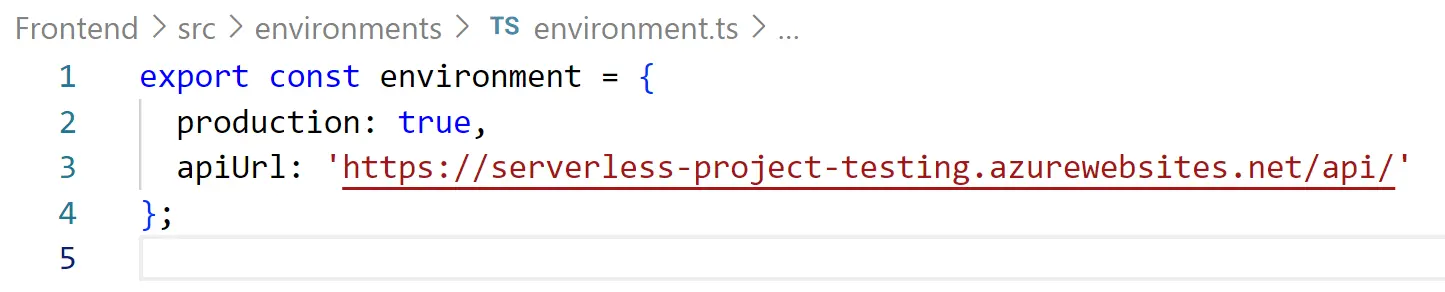
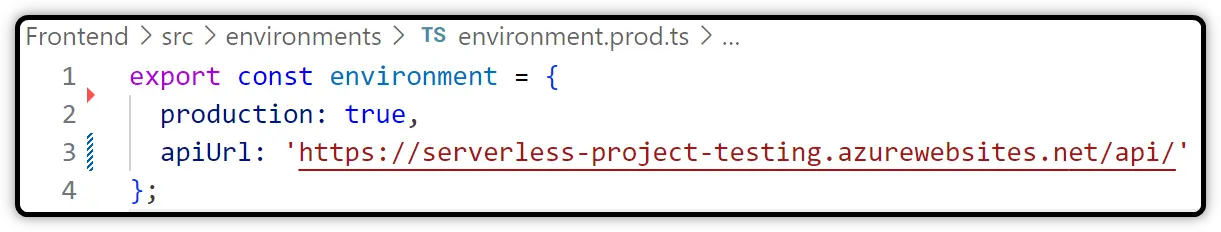
2024_10_20_10:55

Changed region(s): [[0.0, 0.0302, 0.9959, 0.9655]]

diff --git a/how_to_publish_frontend_angular_to_azure_in_visual_studio_code.md b/how_to_publish_frontend_angular_to_azure_in_visual_studio_code.md
@@ -6,7 +6,11 @@ Source here: [henriquesd.medium.com/...](https://henriquesd.medium.com/deploying
 
 ## Creating an APP Service
 
-To deploy the Front-End application, we need to create an “App Service”. In Azure portal, search for “App Services” (this service allows us to deploy our WEB API as software as a service (SaaS):
+To deploy the Front-End application, we need to create an “App Service”. 
+
+In Azure portal, search for “App Services” 
+
+(this service allows us to deploy our WEB API as software as a service (SaaS):
 
 ![foo image label](.images/app-service.webp)
 
@@ -14,13 +18,19 @@ Then click in “Create”:
 
 ![foo image label](.images/app-service-create.webp)
 
-Now it’s necessary to configure your app service, by selecting your subscription, your resource group, informing a name for the service, the tech stack, operating system, region and the **plan:**
+Now it’s necessary to configure your app service, by selecting your subscription, your resource group, 
+
+informing a name for the service, the tech stack, operating system, region and the **plan:**
 
 ![foo image label](.images/create-web-app.webp)
 
-> Note that I’m using the plan “Free F1”, because this is a demo. If you want to deploy your application at a production level, I recommend you to use a “Production” plan.
+> Note that I’m using the plan “Free F1”, because this is a demo. 
+>
+> If you want to deploy your application at a production level, I recommend you to use a “Production” plan.
 
-Then click in “Review + create”, confirm the information and click in “Create”. Can take some time until your service is created, you can check the status in the notifications (the bell icon in the top bar).
+Then click in “Review + create”, confirm the information and click in “Create”. 
+
+Can take some time until your service is created, you can check the status in the notifications (the bell icon in the top bar).
 
 ## Deploying the Angular App with “Azure App Service”
 
@@ -30,9 +40,22 @@ To deploy the Angular application, we are going to use the Visual Studio Code, a
 
 You can download this extension in your Visual Studio Code and use your Azure account to authenticate.
 
-This project uses a back-end application that was already deployed in Azure. So we need to add the URL to the API in the “environment.ts” file:
+This project uses a back-end application that was already deployed in Azure. 
+
+So we need to add the URL to the API in the “environment.ts” file:
 
 ![foo image label](.images/environment-prod-ts.webp)
+
+In the example above:
+
+- **environment.prod.ts** is dedicated to production settings
+- **environment.ts** is dedicated to development settings
+
+Don't forget to configure file replacement in *angular.json* like showed below. 
+
+This is needed when building the application for production.
+
+![foo image label](.images/angular-json-configuration.webp)
 
 After that, by a command-line tool, execute the command to build the application to production:
 
@@ -44,7 +67,9 @@ ng build --configuration production
 
 Check this link as well: https://angular.dev/tools/cli/environments
 
-After executing this command, you can find some files inside of a folder inside of the “dist” folder. These files are the files that we need to deploy in Azure.
+After executing this command, you can find some files inside of a folder inside of the “dist” folder. 
+
+These files are the files that we need to deploy in Azure.
 
 ![foo image label](.images/dist-folder-files.webp)
 
@@ -66,9 +91,13 @@ https://angular-project-testing-345.westeurope-01.azurewebsites.net/
 
 ## Deploying the Angular App with “KUDU”
 
-> Kudu is the engine behind a number of features in Azure App Service related to source control based deployment, and other deployment methods like Dropbox and OneDrive sync. (Microsoft Documentation)
+> Kudu is the engine behind a number of features in Azure App Service related to source control based deployment, 
+>
+> and other deployment methods like Dropbox and OneDrive sync. (Microsoft Documentation)
 
-Another possible way to deploy the Angular application in Azure is by KUDU. This way we can manually add the files by accessing the App Service in the Azure portal and searching for “Advanced tools”:
+Another possible way to deploy the Angular application in Azure is by KUDU. 
+
+This way we can manually add the files by accessing the App Service in the Azure portal and searching for “Advanced tools”:
 
 ![foo image label](.images/advanced-tools.webp)
 
@@ -92,7 +121,9 @@ Create a folder for your project:
 
 ![foo image label](.images/wwwroot-create-folder.webp)
 
-Open your project local folder, and select all the files in the folder inside in the “dist” folder (after executing the `ng build --configuration production` command):
+Open your project local folder, and select all the files in the folder inside in 
+
+the “dist” folder (after executing the `ng build --configuration production` command):
 
 ![foo image label](.images/local-folder.webp)
 
@@ -104,14 +135,24 @@ In your App Service in Azure portal, search for “Configuration”:
 
 ![foo image label](.images/configuration.webp)
 
-Click in *“New virtual application or directory”*, and change from *“site\wwwroot\”* to *“site\wwwroot\BookStore-SPA”* (or the name of the folder that you created):
+Click in *“New virtual application or directory”*, and change from *“site\wwwroot\”* 
+
+to *“site\wwwroot\BookStore-SPA”* (or the name of the folder that you created):
 
 ![foo image label](.images/virtual-applications-and-directories.webp)
 
 After that remember to save the changes. Now you can also access the application.
 
-> **Note**: this is not mandatory to create a new folder inside *wwwroot*. You can simply drag and drop your local files inside the *wwwroot* folder and replace existing ones. 
+> **Note**: this is not mandatory to create a new folder inside *wwwroot*. 
+>
+> You can simply drag and drop your local files inside the *wwwroot* folder and replace existing ones. 
 
 ## Conclusion
 
-These are two different ways to deploy an Angular application in Azure. The first one was using an extension for Visual Studio Code, and the other option using the Advanced Tools in Azure Portal. Deploying your application in a cloud environment as Azure brings many advantages for you since you don’t need to worry about the infrastructure, focusing more on your application. You can check the code of this project here:
+These are two different ways to deploy an Angular application in Azure. 
+
+The first one was using an extension for Visual Studio Code, and the other option using the Advanced Tools in Azure Portal. 
+
+Deploying your application in a cloud environment as Azure brings many advantages for you 
+
+since you don’t need to worry about the infrastructure, focusing more on your application.
